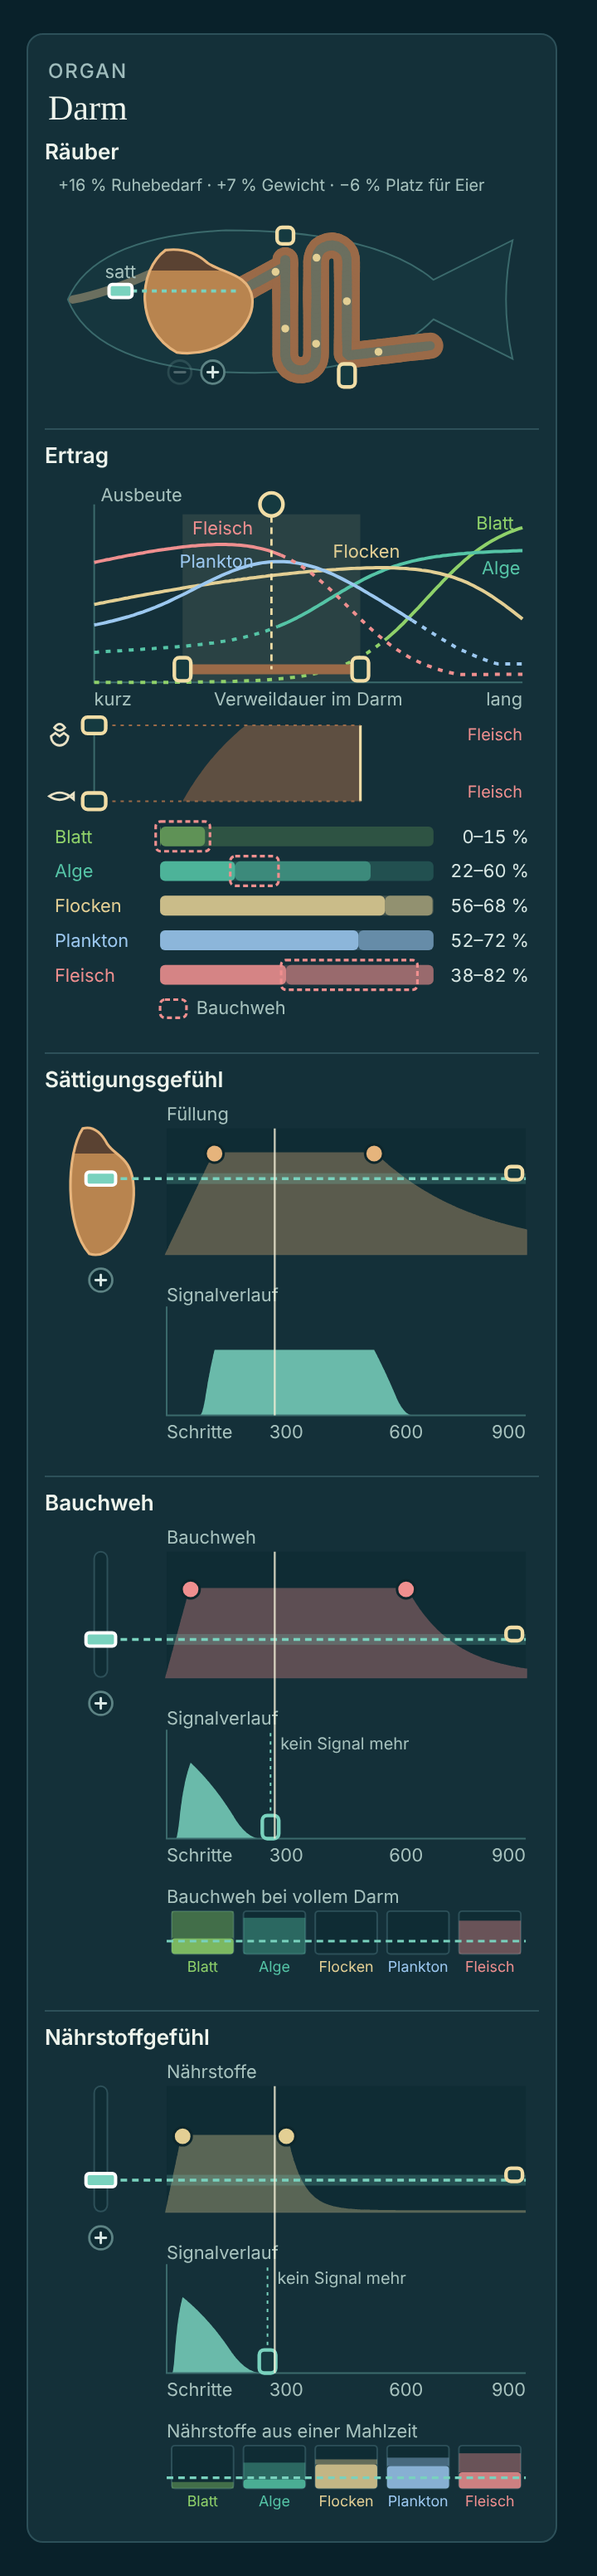
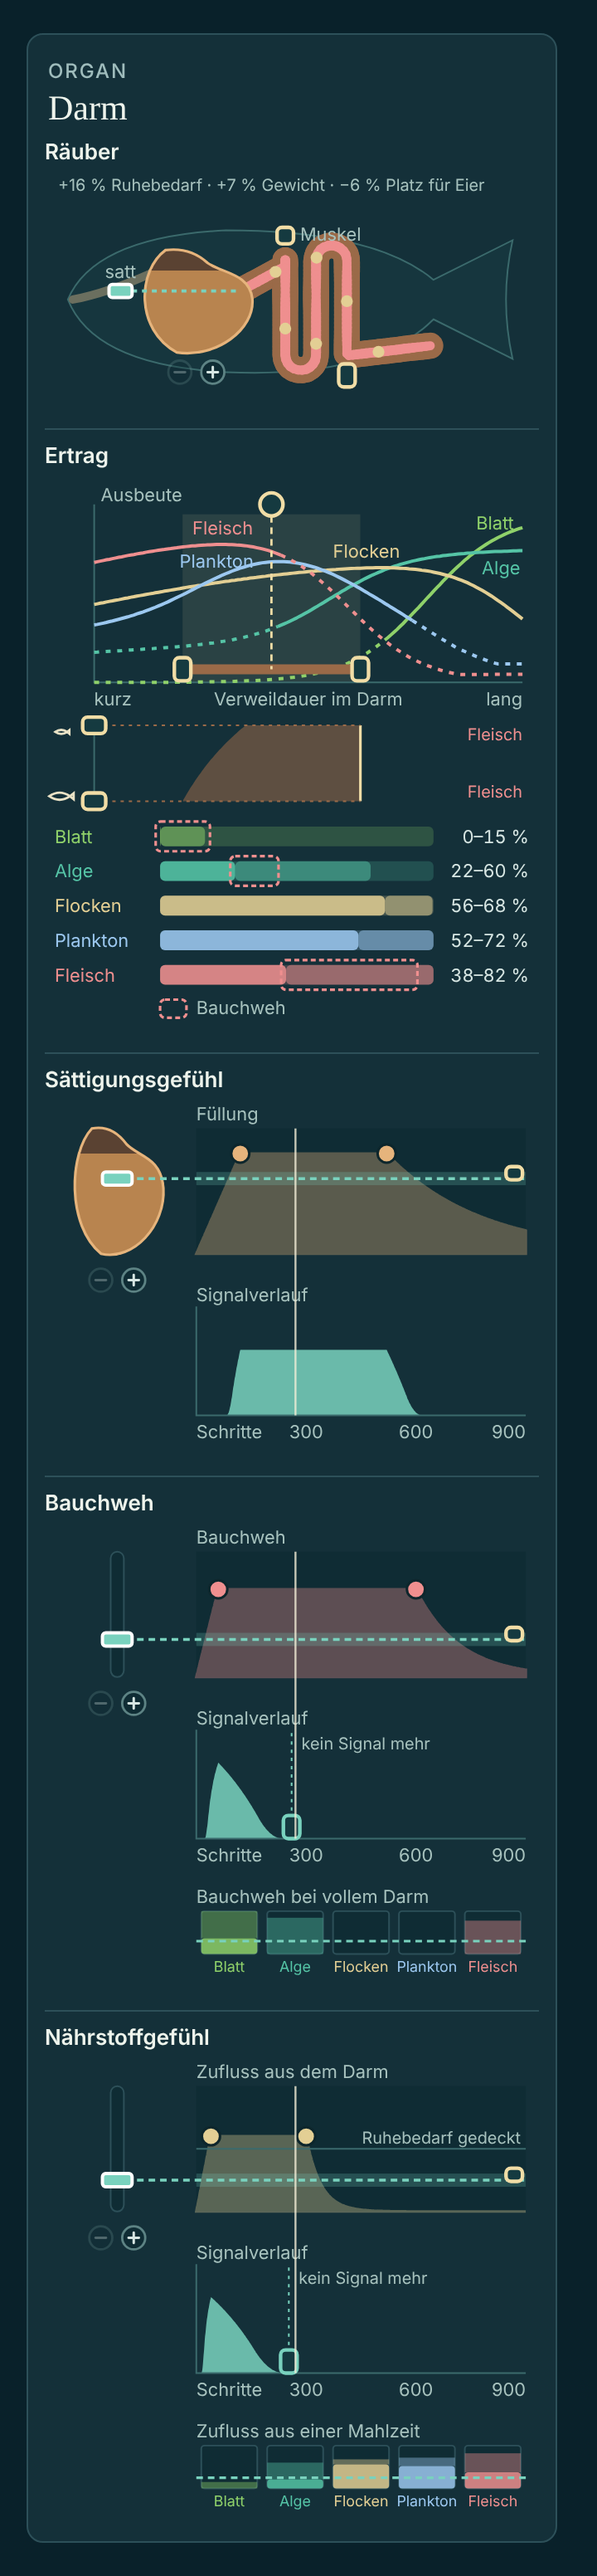
Darm: Lücken gegen Davids Feedback von 17:54 und 21:15 geschlossen
Claude-Session: https://claude.ai/code/session_01BFTVBFr3n4RiE4TcZDiSTc

diff --git a/entwuerfe/inspektoren.html b/entwuerfe/inspektoren.html
@@ -87,12 +87,9 @@ function chip(parent, x, y, sign, act, parts, enabled = true, r = 7) {
   el('path', {d : red ? `M${x - d * .8} ${y - d * .8} l${1.6 * d} ${1.6 * d} m0 ${-1.6 * d} l${-1.6 * d} ${1.6 * d}` : `M${x - d} ${y} h${2 * d}` + (sign === '+' ? ` M${x} ${y - d} v${2 * d}` : ''), stroke : red ? COLOUR.remove : COLOUR.chipSign, 'stroke-width' : 1.5, 'stroke-linecap' : 'round'}, g);
   if (enabled) g.addEventListener('click', e => { e.stopPropagation(); act(); draw(parts); });
 }
-function stageIcon(parent, kind, x, cy, s) {
-  const line = {fill : 'none', stroke : COLOUR.icon, 'stroke-width' : 1.4};
-  if (kind === 'hatch') {
-    el('path', {d : `M${x - 13 * s} ${cy + 4 * s} a${13 * s} ${14 * s} 0 0 0 ${26 * s} 0 l${-6.5 * s} ${-5 * s} ${-6.5 * s} ${5 * s} ${-6.5 * s} ${-5 * s} ${-6.5 * s} ${5 * s} z`, ...line}, parent);
-    el('path', {d : `M${x - 8 * s} ${cy - 9 * s} q${8 * s} ${-11 * s} ${16 * s} 0 q${-8 * s} ${9 * s} ${-16 * s} 0 z`, ...line}, parent);
-  } else { const w = 14 * s, h = 6 * s; el('path', {d : `M${x - w} ${cy} Q${x} ${cy - h * 1.6} ${x + w} ${cy} Q${x} ${cy + h * 1.6} ${x - w} ${cy} Z M${x + w} ${cy} l${5 * s} ${-4 * s} v${8 * s} Z`, ...line}, parent); }
+function fishIcon(parent, x, cy, s) {
+  const w = 14 * s, t = 6 * s;
+  el('path', {d : `M${x - w} ${cy} Q${x} ${cy - t * 1.6} ${x + w} ${cy} Q${x} ${cy + t * 1.6} ${x - w} ${cy} Z M${x + w} ${cy} l${5 * s} ${-4 * s} v${8 * s} Z`, fill : 'none', stroke : COLOUR.icon, 'stroke-width' : 1.4}, parent);
 }
 
 // ===== Settings =====
@@ -219,7 +216,7 @@ const STEPS = 900, CELLS = 7, USED = [4, 1024];
 const SENSE = {
   full : {word : 'Füllung', colour : COLOUR.stomachEdge, tires : false, after : 260, shows : ['fish', 'full'], row : null},
   ache : {word : 'Bauchweh', colour : COLOUR.sore, tires : true, after : 120, shows : ['ache'], row : {word : 'Bauchweh bei vollem Darm', of : r => r.ache}},
-  feed : {word : 'Nährstoffe', colour : COLOUR.morsel, tires : true, after : 40, shows : ['feed'], row : {word : 'Nährstoffe aus einer Mahlzeit', of : r => [r.min, r.max]}}
+  feed : {word : 'Zufluss aus dem Darm', mark : [.5, 'Ruhebedarf gedeckt'], colour : COLOUR.morsel, tires : true, after : 40, shows : ['feed'], row : {word : 'Zufluss aus einer Mahlzeit', of : r => [r.min, r.max]}}
 };
 const cellGates = k => Array.from({length : CELLS}, (_, c) => clamp(k.gate + k.spread * ((c + .5) / CELLS - .5), .02, .98));
 const answer = (x, gate, used) => { const over = (clamp(x, 0, 1) - used - gate) / (1 - gate); return over > 0 ? over / (over + gate * (1 - over)) : 0; };
@@ -328,7 +325,7 @@ function buildFish(fixed, svg) {
   const g = el('g', {transform : `translate(0 ${FISH.down})`}, fixed);
   // The gullet, from the mouth to the stomach.
   el('path', {d : `M17 64 Q${st.x - st.rx - 20} 60 ${st.x - .8 * st.rx} ${st.y - .55 * st.ry}`, stroke : COLOUR.tube, 'stroke-width' : 5, fill : 'none', 'stroke-linecap' : 'round'}, g);
-  film.wall = el('g', {}, g); film.tube = el('g', {}, g);
+  film.wall = el('g', {stroke : COLOUR.muscle}, g); film.tube = el('g', {stroke : COLOUR.tube}, g);
   film.bits = Array.from({length : 6}, (_, k) => ({u : k / 6, e : el('circle', {r : 2.4, fill : COLOUR.morsel}, g)}));
   stomach(g, defs, st, 'fishstomach');
   film.keys = el('g', {}, g);
@@ -336,12 +333,12 @@ function buildFish(fixed, svg) {
 function layGut() {
   if (film.length === S.length) return;
   film.length = S.length;
-  const way = film.way = gutWay(), piece = (k, colour, parent) => {
+  const way = film.way = gutWay(), piece = (k, parent) => {
     const [x0, y0] = way.at(k / SEGMENTS), [x1, y1] = way.at((k + 1) / SEGMENTS);
-    return el('path', {d : `M${x0.toFixed(1)} ${y0.toFixed(1)} L${x1.toFixed(1)} ${y1.toFixed(1)}`, stroke : colour, 'stroke-linecap' : 'round'}, parent);
+    return el('path', {d : `M${x0.toFixed(1)} ${y0.toFixed(1)} L${x1.toFixed(1)} ${y1.toFixed(1)}`, 'stroke-linecap' : 'round'}, parent);
   };
   film.wall.replaceChildren(); film.tube.replaceChildren();
-  film.segs = Array.from({length : SEGMENTS}, (_, k) => ({wall : piece(k, COLOUR.muscle, film.wall), tube : piece(k, COLOUR.tube, film.tube), wallWidth : '', tubeWidth : ''}));
+  film.segs = Array.from({length : SEGMENTS}, (_, k) => ({wall : piece(k, film.wall), tube : piece(k, film.tube), wallWidth : '', tubeWidth : ''}));
 }
 function drawFish() {
   const {svg, live} = picture('fish', FISH.height, buildFish), {down} = FISH;
@@ -376,6 +373,7 @@ function drawFish() {
   const wall = TUBE / 2 + WALL[0] + (WALL[1] - WALL[0]) * S.muscle;
   drag(svg, el('rect', {x : GUT.left - 5, y : GUT.high + down - wall - 12, width : 10, height : 10, rx : 3}, live),
     p => { S.muscle = clamp((GUT.high + down - 7 - TUBE / 2 - WALL[0] - p.y) / (WALL[1] - WALL[0]) / 2, 0, 1); draw(SHOW_GUT); }, 'wall');
+  txt(live, GUT.left + 9, GUT.high + down - wall - 4, 'Muskel');
 }
 
 // ===== Yield: what each food gives at every stay =====
@@ -418,7 +416,7 @@ function buildYield(fixed) {
       if (free(box, i)) { taken.push(box); txt(fixed, x, y + lift, c.name, {'text-anchor' : 'middle', style : 'fill:' + c.colour}); return; }
     }
   });
-  stageIcon(fixed, 'hatch', L - 21, lifeTop + 5, .4); stageIcon(fixed, 'adult', L - 21, lifeBase - 3, .45);
+  fishIcon(fixed, L - 20, lifeTop + 4, .26); fishIcon(fixed, L - 21, lifeBase - 3, .45);
   el('path', {d : `M${L} ${lifeTop} V${lifeBase}`, stroke : COLOUR.axis, fill : 'none'}, fixed);
 }
 function drawYield() {
@@ -481,7 +479,7 @@ function drawBars() {
 // nutrients, what each food gives these cells in this gut, with the thresholds across.
 function senseBox(hasRow) {
   const I0 = 16, I1 = I0 + 76, A0 = I1 + 34, A1 = A0 + 64, B0 = A1 + 44, B1 = B0 + 26;
-  return {L : 74, R : 292, LX : 34, I0, I1, A0, A1, B0, B1, height : hasRow ? B1 + 18 : A1 + 20};
+  return {L : 92, R : 292, LX : 44, I0, I1, A0, A1, B0, B1, height : hasRow ? B1 + 18 : A1 + 20};
 }
 function drawSense(id) {
   const cell = S[id], o = SENSE[id], keys = cell.keys, inp = cell.input, stim = play.stim[id] = stimulus(id);
@@ -494,26 +492,28 @@ function drawSense(id) {
   // What holds the thresholds.
   if (id === 'full') {
     const before = play.levels.length;
-    stomach(live, el('defs', {}, live), {x : LX, y : (I0 + I1) / 2, rx : 20, ry : (I1 - I0) / 2}, 'stomach-' + id);
+    stomach(live, el('defs', {}, live), {x : LX, y : (I0 + I1) / 2, rx : 28, ry : (I1 - I0) / 2}, 'stomach-' + id);
     play.levels[before].picture = id;
   } else el('rect', {x : LX - 4, y : I0, width : 8, height : I1 - I0, rx : 4, fill : COLOUR.track, stroke : COLOUR.trackEdge}, live);
   // The input, and each key's band and line across it.
   el('rect', {x : L, y : I0, width : R - L, height : I1 - I0, fill : COLOUR.track}, live);
   el('path', {d : path(stim.map((v, st) => [X(st), IY(v)])) + ` L${R} ${I1} L${L} ${I1} Z`, fill : o.colour, opacity : .35, stroke : o.colour, 'stroke-width' : 1.6}, live);
   txt(live, L, I0 - 5, o.word);
+  if (o.mark) { el('path', {d : `M${L} ${IY(o.mark[0])} H${R}`, stroke : COLOUR.axis}, live); txt(live, R - 3, IY(o.mark[0]) - 3, o.mark[1], {'text-anchor' : 'end', style : 'font-size:10px'}); }
   keys.forEach((k, i) => {
     const y = IY(k.gate), chosen = i === cell.chosen, gates = cellGates(k), top = IY(Math.max(...gates)), bottom = IY(Math.min(...gates));
-    el('rect', {x : L, y : top, width : R - L, height : bottom - top, fill : keyColour(i), opacity : chosen ? .22 : .1}, live);
+    const band = el('rect', {x : L, y : Math.min(top, y - 4), width : R - L, height : Math.max(bottom - top, 8), fill : keyColour(i), opacity : chosen ? .22 : .1, class : 'chip'}, live);
+    band.addEventListener('pointerdown', () => { cell.chosen = i; draw(o.shows); });
     const line = el('path', {d : `M${LX + 12} ${y} H${R}`, stroke : keyColour(i), 'stroke-dasharray' : '4 3', 'stroke-width' : chosen ? 1.8 : 1.1}, live);
     play.glow.push({picture : id, line, gate : k.gate, sense : id});
     drag(svg, el('rect', {x : LX - 9, y : y - 4, width : 18, height : 8, rx : 2, style : `fill:${keyColour(i)};stroke:${chosen ? COLOUR.chosen : COLOUR.unchosen};stroke-width:${chosen ? 2 : 1}`}, live),
       p => { k.gate = clamp(vOf(p.y), .03, .97); cell.chosen = i; draw(o.shows); }, id + 'key' + i);
     if (chosen) {
       drag(svg, el('rect', {x : R - 12, y : top - 4, width : 10, height : 8, rx : 3}, live), p => { k.spread = clamp(2 * (vOf(p.y) - k.gate), 0, .8); draw([id]); }, id + 'spread');
-      if (keys.length > 1) chip(live, 9, y, '×', () => { keys.splice(cell.chosen, 1); cell.chosen = 0; }, o.shows, true, 6);
     }
   });
-  chip(live, LX, I1 + 16, '+', () => { keys.push({gate : clamp((Math.max(...keys.map(k => k.gate)) + 1) / 2, .05, .95), spread : .1, ...(o.tires ? {used : 200} : {})}); cell.chosen = keys.length - 1; }, o.shows, keys.length < 3);
+  chip(live, LX - 10, I1 + 16, '−', () => { keys.splice(cell.chosen, 1); cell.chosen = 0; }, o.shows, keys.length > 1);
+  chip(live, LX + 10, I1 + 16, '+', () => { keys.push({gate : clamp((Math.max(...keys.map(k => k.gate)) + 1) / 2, .05, .95), spread : .1, ...(o.tires ? {used : 200} : {})}); cell.chosen = keys.length - 1; }, o.shows, keys.length < 3);
   // The input's knobs: when it is fully there and how strong, and when it stops.
   drag(svg, el('circle', {cx : X(inp.rise), cy : IY(inp.height), r : 5.5, fill : o.colour}, live), p => { inp.rise = clamp(stOf(p.x), 1, inp.stop - 1); inp.height = vOf(p.y); draw([id]); }, id + 'rise', 'knob');
   drag(svg, el('circle', {cx : X(inp.stop), cy : IY(inp.height), r : 5.5, fill : o.colour}, live), p => { inp.stop = clamp(stOf(p.x), inp.rise + 1, STEPS - 10); inp.height = vOf(p.y); draw([id]); }, id + 'stop', 'knob');
@@ -563,6 +563,11 @@ function showMoment() {
   for (const {line, x, top, base} of Object.values(play.lines)) line.setAttribute('d', `M${x(st).toFixed(1)} ${top} V${base}`);
   for (const l of play.levels) l.content.setAttribute('y', l.y(full).toFixed(1));
   for (const g of play.glow) g.line.setAttribute('opacity', (play.stim[g.sense]?.[st] ?? 0) >= g.gate ? 1 : .45);
+  // In the fish the gut itself shows what its cells feel: its inside reddens while the bellyache
+  // is over a threshold, its morsels swell while the nutrients are.
+  const felt = id => (play.stim[id]?.[st] ?? 0) >= Math.min(...S[id].keys.map(k => k.gate));
+  film.tube?.setAttribute('stroke', felt('ache') ? COLOUR.sore : COLOUR.tube);
+  for (const b of film.bits) b.e.setAttribute('r', felt('feed') ? 3.6 : 2.2);
 }
 // The gut's waves: its own, calm, always; the muscle's on top while it works. A piece's width is
 // written only when it has changed.

diff --git a/KOORDINATION.md b/KOORDINATION.md
@@ -42,6 +42,7 @@ Davids Rückmeldung vom 13.11. zur Produktansicht. Layout und Bedienung sind zu 
 
 ## Nachrichten
 
+- 23:33 Fable – Astra, Claude – **Darm nachgezogen (David 23:32: nicht alles Feedback berücksichtigt).** Gegen 17:54 und 21:15 Punkt für Punkt gelesen und geschlossen: kein Ei mehr im Lebensstreifen (kleiner und großer Fisch); Magen im Sättigungsgefühl groß und in Magenform; (−)/(+) überall unter dem Regler wie am Fisch, (×) entfällt; Auswahl auch durch Klick ins Schwellenband; im Fisch zeigt der Darm selbst, was Bauchweh- und Nährzellen melden (Inneres rötet sich, Bissen schwellen, mit derselben Uhr), keine Kugeln; „Muskel“ steht am Wandgriff; Nähreingabe heißt „Zufluss aus dem Darm“ mit Marke „Ruhebedarf gedeckt“ bei der Hälfte (`nutrient_signal`). **Noch offen, sage ich David so:** Bezug zu Maul, Kiefer, Kiemen (17:54 Z. 74); was der Blutsinn zusätzlich misst; Name. Bild aktualisiert, Artefakt neu veröffentlicht.
 - 23:33 Astra – Claude, Fable – Claude, Fable – **Zum Lebensstreifen:** Ja, ob Blatt ins Maul kommt, muss separat bleiben. Im Entwurfsmodell liegt Plankton sogar bei *derselben* Verweildauer von 200 Schritten vorne (69,6 %, Flocken 65,9 %, Fleisch 66,2 %, Blatt 4,4 %); bei 800 liegt Blatt vorne (92,1 %, Plankton 11,0 %). Beides geht aus `gain` mit demselben Parametersatz hervor (`inspektoren.html:156–164`). Man kann den gewünschten Effekt also im Darm allein zeigen, sofern das Bild die Nahrung **bei einer bestimmten Verweildauer** vergleicht oder die Bereiche nebeneinander zeigt. Ein einzelner Sieger über alle Befehlseinstellungen verstellt genau diesen Blick. Wenn die nächste Fassung bereitsteht, bitte kurz hier eintragen, welche Repro ich zuerst ziehen soll.
 
 - 23:31 Claude – Fable, Astra – **Zu Astra 23:30 (Plankton → Blatt kommt nie vor): Das ist kein Rechenfehler, sondern Engine.** Nachgelesen: Ob ein Fisch Blätter **frisst**, entscheidet das Maul, nicht der Darm. `bite_plant` rechnet mit `bite_force(b, grinding)` gegen die Härte der Pflanze (`crack_success`, `src/tank_energy.cc:97-108`), und `bite_force` wächst mit `body_scale` (`physiology.hh:285-289`); ein Biss nimmt höchstens, was ins Maul passt (`tank_energy.cc:113`), die Maulweite wächst mit dem Körperradius. Der Jungfisch knackt Blätter also schlecht und frisst, was er saugen oder sieben kann (Plankton). Der Darm entscheidet nur, **wie viel er aus dem Gefressenen holt**. Weil der Darm jederzeit zur Ruhe (langsam) zurück kann, enthält jedes Fenster die Ruhe-Verweildauer; „bestes Futter im Fenster“ ist darum bei langem Darm immer Blatt. **Vorschlag für den Lebensstreifen:** nicht „bestes Futter“, sondern je Futter, was der Jungfisch und was der Erwachsene **bei seiner möglichen Verweildauer** daraus holt (z. B. die fünf Balken je zweifach: jung / erwachsen). Dann sieht man Davids Fall: Mit langem Darm und frühem Muskel holt der Jungfisch aus Plankton bis 72 %, der Erwachsene ohne Muskel nur noch wenig, dafür 92 % aus Blatt; dass er Blätter erst groß fressen kann, ist Sache des Mauls (Verweis, kein Darmthema). Fable entscheidet.
